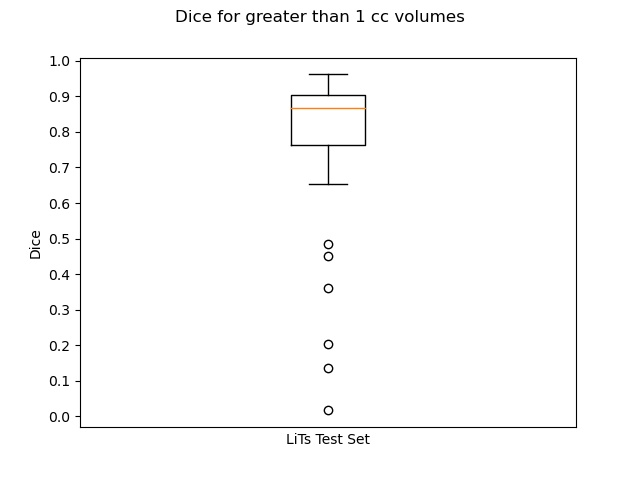
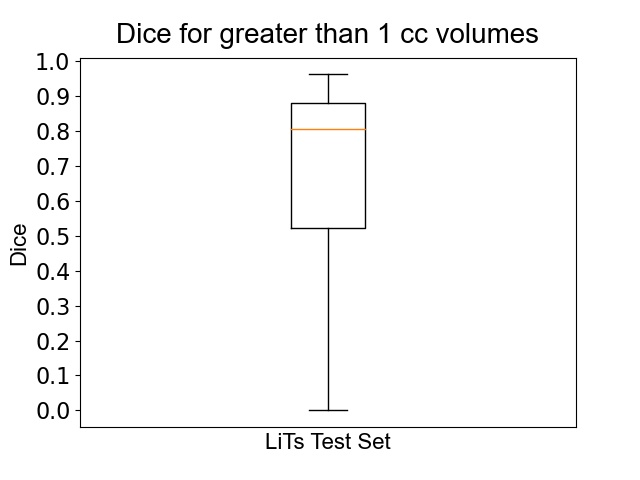
added main text file to explain where things are. Moved excel files out and shortcuts in

diff --git a/Deep_Learning/Evaluate_Model/Main.py b/Deep_Learning/Evaluate_Model/Main.py
@@ -71,9 +71,9 @@ def main():
         df = pd.read_excel(out_path, engine='xlrd')
         volumes = df['volume'].values
         values = df['dice'].values
-        values = values[volumes > 2]
+        values = values[volumes < 1]
         values = values[values < 1000]
-        create_plot('Dice for greater than 2 cc volumes',values=values,metric='Dice', out_path=os.path.join('.','Images'),
+        create_plot('Dice for less than 1 cc volumes',values=values,metric='Dice', out_path=os.path.join('.','Images'),
                     y_ticks=[0,.1,.2,.3,0.4,0.5,0.6,0.7,0.8,0.9,1])
         xxx = 1
 

diff --git a/Pre_Processing/Main_Module.py b/Pre_Processing/Main_Module.py
@@ -33,7 +33,7 @@ if make_single_images:
     extension = 32
     write_images = False
     re_write_pickle = True
-    run_main(path,desired_output_spacing,extension, write_images, re_write_pickle, file_ext='_None')
+    run_main(path, desired_output_spacing,extension, write_images, re_write_pickle, file_ext='_None')
 
 if make_TF2_images:
     path = r'H:\Liver_Disease_Ablation'